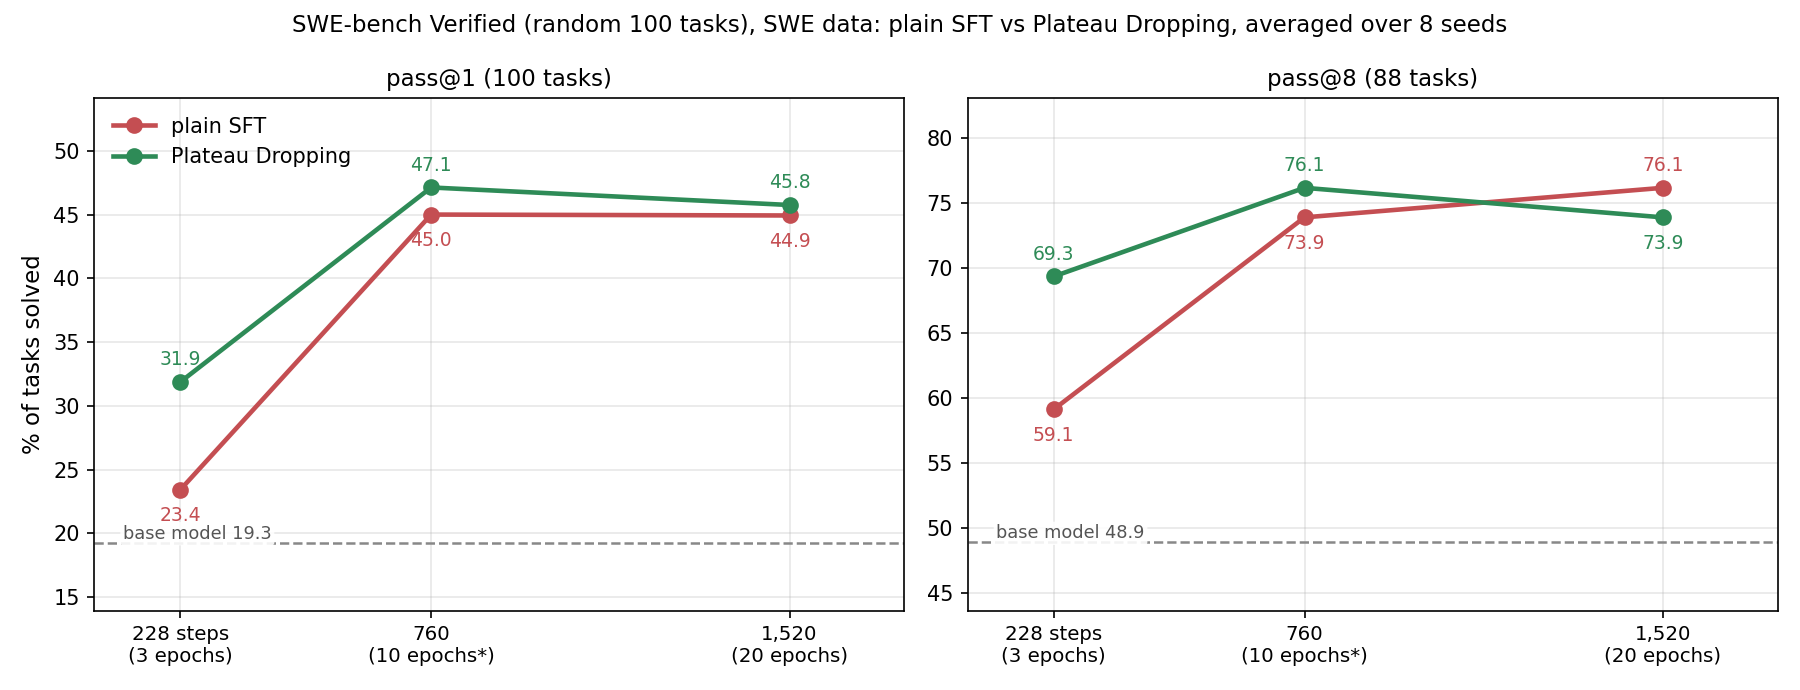
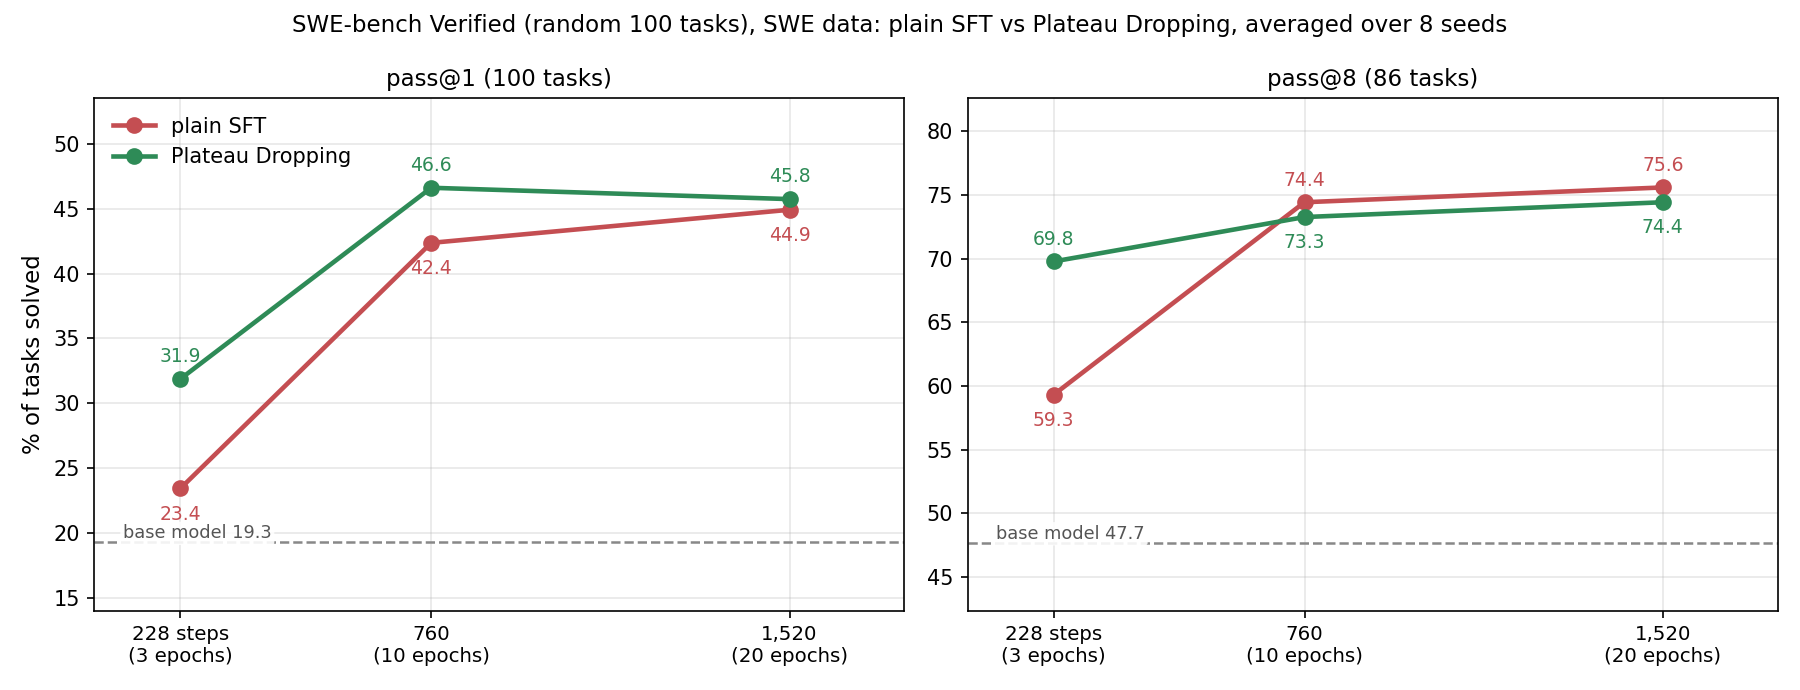
Update Plateau Dropping post: complete Table 1, final 10-epoch SWE pair
Re-port from plateau-dropping-experiments@92e2077; Figure 2 regenerated.

Claude-Session: https://claude.ai/code/session_018Ea4K6tyj913yCS93WC7Xj

diff --git a/_posts/2026-10-20-plateau-dropping.md b/_posts/2026-10-20-plateau-dropping.md
@@ -6,7 +6,6 @@ authors: Harshit Varma
 math: true
 ---
 
-
 **Summary.** Supervised fine-tuning on agent trajectories spends most of its gradient on tokens the model has already learned. We propose *Plateau Dropping*, a per-token change to SFT: the trainer tracks each training token's loss across passes over the data and removes the token from the training loss once its loss has stopped changing, so each update is driven only by tokens the model is still learning. What this buys is speed: the model acquires the agent's behaviour in far fewer passes. On SWE-bench Verified (random 100 tasks), after 3 nominal epochs on the same data, Plateau Dropping reaches 31.9% pass@1 against 23.4% for plain SFT, and 67.0% against 58.3% at pass@8. The trajectories show why: at that budget the plain-SFT agent still writes 55% longer reasoning per step, breaks the tool-call format in 1 attempt in 9, tests half as often and submits a third less, while the Plateau Dropping agent already behaves like a fully trained one. On the terminal benchmarks the advantage appears at 220 steps (+4.9 points of pass@1 on TB-Lite, +1.8 on Terminal-Bench 2.0). With more passes the gap closes, and for Plateau Dropping the closing looks like sharpening: between 10 and 20 nominal epochs its pass@1 stays put or slips while its pass@8 falls on all three benchmarks (by 2.0, 6.6 and 2.4 points on SWE-bench Verified, TB-Lite and Terminal-Bench 2.0), so that after 20 epochs on the SWE data the two methods are level (44.9% against 45.8% pass@1, 74.7% against 72.7% pass@8) and on the terminal data the 440-step Plateau Dropping run sits below its own 220-step result while plain SFT holds. Filtering whole sequences the model already fits (TailSFT) does not help at any budget we tested. One reason the long Plateau Dropping runs may be held back is gradient clipping, which hits them on 86 to 100% of their steps and plain SFT on 3 to 5%; an ablation with the clip raised is being evaluated.
 
 ---
@@ -22,21 +21,24 @@ Figure 1. Training loss on the SWE data. (a) Mean training loss per pass over th
 
 **Most of the gradient goes to tokens that are already learned.** Plateau Dropping's own bookkeeping (Section 2) measures this directly: the moment it starts judging tokens, at step 192 of a run on the SWE data, half of the training tokens already have a loss that has stopped moving, at an average loss of 0.21; by the end of a 20-epoch run that is two thirds of the tokens, at an average loss of 0.05, while the tokens still being learned sit at 0.43 (Figure 1b). Plain SFT averages its loss over all of them, so the tokens that are already right dilute every update.
 
-**Sequence-level filtering: TailSFT.** TailSFT ([Malladi et al., 2026](https://arxiv.org/abs/2608.25756)) drops training sequences the model already fits, judged by how far each sequence's loss has fallen below the base model's, so that learning concentrates on the under-modelled tail. On OLMo-3 7B it reports up to 17 points of pass@16 on math and coding, and up to 4 points of pass@1 after RL. On our agent data it does not help (Table 1): per-trajectory TailSFT for 3 nominal epochs, dropping half of each batch's trajectories with the drop share ramped up over the run, is level with plain SFT at pass@1 on SWE-bench Verified and Terminal-Bench 2.0 and 5 points below it on TB-Lite, and no better than plain SFT at pass@8 on either terminal benchmark.
+**Sequence-level filtering: TailSFT.** TailSFT ([Malladi et al., 2026](https://arxiv.org/abs/2608.25756)) drops training sequences the model already fits, judged by how far each sequence's loss has fallen below the base model's, so that learning concentrates on the under-modelled tail. On OLMo-3 7B it reports up to 17 points of pass@16 on math and coding, and up to 4 points of pass@1 after RL. On our agent data it does not help (Table 1): per-trajectory TailSFT for 3 nominal epochs, dropping half of each batch's trajectories with the drop share ramped up over the run, is level with plain SFT at pass@1 on SWE-bench Verified and Terminal-Bench 2.0 and 5 points below it on TB-Lite, and 6 to 7 points below plain SFT at pass@8 on all three. The three agent-aware variants we tried (taking the full drop share from step 5 instead of ramping it, scoring per agent step, scoring per span) do no better: the per-step variant is the only one ahead of plain SFT anywhere (Terminal-Bench 2.0 pass@1, +3.2 ± 1.3) and it is 12 points behind at pass@8 on TB-Lite. Training for 10 nominal epochs (220 steps) does not change the picture: per-trajectory TailSFT is level with plain SFT (TB-Lite +1.1 ± 1.9, Terminal-Bench 2.0 −0.9 ± 1.5 at pass@1) where Plateau Dropping leads by 4.9 and 1.8 (Section 3.2).
 
-**Table 1.** TailSFT against plain SFT at 3 nominal epochs (66 steps on the terminal data, 228 on the SWE data), pass@1 and pass@8 in %, averaged over 8 seeds. The last column is the paired difference, TailSFT minus SFT, with its standard error over tasks. Task counts (pass@1 / pass@8): Terminal-Bench 2.0 88 / 65; TB-Lite 97 / 80; SWE-bench Verified 100 / 94. The two agent-specific variants (per agent step, per span) and the full-drop-share-from-step-5 variant are still being evaluated.
+**Table 1.** TailSFT against plain SFT at 3 nominal epochs (66 steps on the terminal data, 228 on the SWE data), pass@1 and pass@8 in %, averaged over 8 seeds. The last column is the paired difference, TailSFT minus SFT, with its standard error over tasks. Each benchmark's rows use the tasks with enough valid attempts for every model in those rows; task counts (pass@1 / pass@8): SWE-bench Verified 100 / 92; Terminal-Bench 2.0 88 / 60; TB-Lite 97 / 76. Because the terminal task set here is matched across five models, plain SFT's terminal pass@8 differs from Tables 5 and 6, which are matched across a different set of models. The per-trajectory variant drops half of each batch's trajectories, with the drop share ramped up linearly over the run; "full share from step 5" drops half from step 5 on; "per agent step" and "per span" score and drop individual agent turns or individual reasoning and command spans instead of whole trajectories.
 
 | benchmark | model | pass@1 | pass@8 | TailSFT − SFT at pass@1 / pass@8 |
 |---|---|---|---|---|
 | SWE-bench Verified | SFT | 23.4 | 58.3 | |
-| SWE-bench Verified | TailSFT, per trajectory | 24.3 | [pending] | +0.9 (1.7) / – [provisional, 710 of 800 trials] |
-| Terminal-Bench 2.0 | SFT | 10.2 | 29.2 | |
-| Terminal-Bench 2.0 | TailSFT, per trajectory | 10.1 | 27.7 | −0.1 (1.4) / −1.5 (5.1) |
-| TB-Lite | SFT | 27.3 | 68.8 | |
-| TB-Lite | TailSFT, per trajectory | 22.2 | 62.5 | −5.2 (2.0) / −6.2 (3.7) |
-| terminal benchmarks | TailSFT, per trajectory, full drop share from step 5 | [pending] | [pending] | |
-| terminal benchmarks | TailSFT, per agent step | [pending] | [pending] | |
-| terminal benchmarks | TailSFT, per span (reasoning and command separately) | [pending] | [pending] | |
+| SWE-bench Verified | TailSFT, per trajectory | 23.4 | 52.1 | +0.0 (1.7) / −6.5 (4.5) |
+| Terminal-Bench 2.0 | SFT | 10.2 | 40.0 | |
+| Terminal-Bench 2.0 | TailSFT, per trajectory | 10.1 | 33.3 | −0.1 (1.4) / −6.7 (5.0) |
+| Terminal-Bench 2.0 | TailSFT, per trajectory, full share from step 5 | 10.2 | 30.0 | −0.0 (1.4) / −10.0 (4.4) |
+| Terminal-Bench 2.0 | TailSFT, per agent step | 13.4 | 41.7 | +3.2 (1.3) / +1.7 (4.5) |
+| Terminal-Bench 2.0 | TailSFT, per span | 8.8 | 35.0 | −1.4 (1.3) / −5.0 (4.3) |
+| TB-Lite | SFT | 27.3 | 73.7 | |
+| TB-Lite | TailSFT, per trajectory | 22.2 | 67.1 | −5.2 (2.0) / −6.6 (3.8) |
+| TB-Lite | TailSFT, per trajectory, full share from step 5 | 23.9 | 61.8 | −3.5 (1.8) / −11.8 (5.1) |
+| TB-Lite | TailSFT, per agent step | 25.2 | 61.8 | −2.1 (1.7) / −11.8 (4.2) |
+| TB-Lite | TailSFT, per span | 25.2 | 68.4 | −2.1 (1.7) / −5.3 (4.6) |
 
 Two things about sequence-level filtering do not fit agent data. A trajectory mixes tokens the model has long learned (tool-call syntax, repeated commands) with tokens it has not, so a sequence-level score blurs them; and a snapshot of confidence is a poor guide to what is still being learned, since many easy tokens are still moving while some hard tokens are stuck. This led us to select individual tokens rather than whole sequences, and to judge each token by its own loss history rather than by a snapshot of confidence. We propose *Plateau Dropping*, which does both: it removes a token from the training loss once that token's loss has plateaued. The token stays in its sequence, so its loss is still measured each time the sequence is revisited, and if that loss starts changing again, the token goes back into the training loss.
 
@@ -78,7 +80,7 @@ Our packer fills fixed-length rows (64k tokens on the SWE data, 32k on the termi
 - **Terminal data.** 6,301 successful trajectories (45M tokens, 1,610 tasks): 5,324 from the public [allenai/tmax-sft](https://huggingface.co/datasets/allenai/tmax-sft) dataset, written by a 27B teacher, and 977 of the base model's own successes on synthetic terminal tasks. Context 32k.
 - **SWE data.** 9,229 resolved trajectories (7,005 tasks) from the public [nvidia/Open-SWE-Traces](https://huggingface.co/datasets/nvidia/Open-SWE-Traces) dataset, restricted to one shell command per step to match our agent (319M tokens). Context 64k.
 - **Training.** Learning rate 1e-4, cosine schedule over the run with 3% warmup, AdamH, no weight decay, global gradient-norm clipping at 1.0, bf16 compute with fp32 master weights and optimizer state, expert capacity factor 2.0 (no dropped token-to-expert assignments), router biases frozen, 16 nodes of 4 GPUs each. Plain SFT and Plateau Dropping runs of the same length share the data order.
-- **Compared models.** On the terminal data: SFT and Plateau Dropping for 3, 10 and 20 nominal epochs (66, 220 and 440 steps), and TailSFT for 3. On the SWE data: SFT and Plateau Dropping for 3 and 20 nominal epochs (228 and 1,520 steps), evaluated at the end and, for the 20-epoch runs, at their mid-schedule checkpoint (step 760), TailSFT for 3, and dedicated 10-epoch runs (760 steps with their own schedule) that are being evaluated.
+- **Compared models.** On the terminal data: SFT and Plateau Dropping for 3, 10 and 20 nominal epochs (66, 220 and 440 steps), and TailSFT for 3. On the SWE data: SFT and Plateau Dropping for 3, 10 and 20 nominal epochs (228, 760 and 1,520 steps), TailSFT for 3, and a 10-epoch Plateau Dropping run with the gradient clip raised from 1.0 to 4.0 (Section 3.3).
 - **Harness.** We use the [mini-swe-agent](https://github.com/SWE-agent/mini-swe-agent) harness everywhere: all training trajectories are in its format, and all evaluations run in it. At each step the model writes its reasoning and one shell command, then sees the command's output.
 
 **Our data in context.** By the standards of public agentic SFT data, our datasets are small to mid-sized (Table 2). In trajectory count they are close to the sets several SWE agents were fine-tuned on (SWE-smith, R2E-Gym, SWE-Dev) and to the terminal set we draw from, and one to two orders of magnitude below the largest public releases (Open-SWE-Traces, Nemotron-Terminal-Corpus). None of the public releases reports a total token count.
@@ -111,7 +113,7 @@ One change to the SWE-bench Verified grader: before running the tests, the stand
 
 ![Figure 2](/assets/img/blog/plateau-dropping/fig5_swebench_corrected.png)
 
-Figure 2. SWE-bench Verified (random 100 tasks), pass@1 and pass@8 (%) against training length for plain SFT (red) and Plateau Dropping (green), averaged over 8 seeds; dashed: the base model. Each panel uses the tasks with at least k valid attempts for every model shown (100 at pass@1, 88 at pass@8). The 10-epoch point is the mid-schedule checkpoint of the 20-epoch runs until the dedicated 10-epoch runs are evaluated.
+Figure 2. SWE-bench Verified (random 100 tasks), pass@1 and pass@8 (%) against training length for plain SFT (red) and Plateau Dropping (green), averaged over 8 seeds; dashed: the base model. Each panel uses the tasks with at least k valid attempts for every model shown (100 at pass@1, 86 at pass@8).
 {: .caption}
 
 **Table 3.** SWE-bench Verified, pass@1 and pass@8 in %, averaged over 8 seeds, all 100 tasks at pass@1 (pass@8: the number of tasks with 8 valid attempts for both models of a pair, in brackets). The last column is the paired difference, Plateau Dropping minus SFT, with its standard error over tasks.
@@ -121,14 +123,12 @@ Figure 2. SWE-bench Verified (random 100 tasks), pass@1 and pass@8 (%) against t
 | none | base model | 19.3 | 47.7 | |
 | 3 epochs (228 steps) | + SFT | 23.4 | 58.3 (94) | |
 | 3 epochs (228 steps) | + Plateau Dropping | **31.9** | **67.0** (94) | +8.4 (2.1) / +9.6 (4.6) |
-| step 760 of the 20-epoch runs | + SFT | 45.0 | 72.7 (99) | |
-| step 760 of the 20-epoch runs | + Plateau Dropping | **47.1** | **74.0** (99) | +2.1 (1.7) / +2.0 (2.9) |
-| 10 epochs (760 steps, own schedule) | + SFT | [pending] | [pending] | |
-| 10 epochs (760 steps, own schedule) | + Plateau Dropping | [pending] | [pending] | [pending] |
+| 10 epochs (760 steps) | + SFT | 42.4 | 71.1 (97) | |
+| 10 epochs (760 steps) | + Plateau Dropping | **46.6** | **72.2** (97) | +4.2 (1.8) / +1.0 (3.5) |
 | 20 epochs (1,520 steps) | + SFT | 44.9 | **74.7** (98) | |
 | 20 epochs (1,520 steps) | + Plateau Dropping | **45.8** | 72.7 (98) | +0.8 (1.7) / −3.1 (3.0) |
 
-Three things stand out. First, plain SFT on this data is strong: 20 nominal epochs take the base model from 19.3% to 44.9% pass@1 and from 47.7% to 74.7% pass@8, and the loss keeps falling throughout (Figure 1). Second, at a small training budget Plateau Dropping is far ahead: after 3 nominal epochs (2.2 real passes) it is 8.4 points above plain SFT at pass@1, four standard errors, and 9.6 points above it at pass@8. The two runs are identical until step 192, so the whole difference comes from the last 36 steps of the run, during which Plateau Dropping trains on the half of the tokens whose loss is still moving. Third, with more passes the gap closes, and the way it closes is sharpening on Plateau Dropping's side: at the mid-schedule checkpoint (10 nominal epochs) it is about 2 points ahead at both pass@1 and pass@8 (about one standard error); from there to 20 epochs its pass@1 stays within noise (47.1% to 45.8%, −1.4 ± 1.6 paired) while its pass@8 falls (74.7% to 72.7%, −2.0 ± 1.4), whereas plain SFT's pass@1 is unchanged (45.0% to 44.9%) and its pass@8 keeps rising (72.4% to 74.5%, +2.0 ± 2.8). The two curves cross at pass@8 and end level at pass@1, with no coverage advantage for Plateau Dropping at 20 epochs (72.7% against 74.7%). TailSFT at 3 epochs lands with plain SFT (Table 1). The dedicated 10-epoch runs, and the clipping ablation of Section 3.3, are being evaluated.
+Three things stand out. First, plain SFT on this data is strong: 20 nominal epochs take the base model from 19.3% to 44.9% pass@1 and from 47.7% to 74.7% pass@8, and the loss keeps falling throughout (Figure 1). Second, at a small training budget Plateau Dropping is far ahead: after 3 nominal epochs (2.2 real passes) it is 8.4 points above plain SFT at pass@1, four standard errors, and 9.6 points above it at pass@8. The two runs are identical until step 192, so the whole difference comes from the last 36 steps of the run, during which Plateau Dropping trains on the half of the tokens whose loss is still moving. Third, with more passes the gap narrows and then closes. At 10 nominal epochs Plateau Dropping is 4.2 points ahead at pass@1 (two standard errors) and level at pass@8 (+1.0 ± 3.5). From 10 to 20 epochs it stops improving: its pass@1 is flat (46.6% to 45.8%, −0.9 ± 1.8 paired) and so is its pass@8 (73.5% to 73.5% on the 98 tasks common to both evaluations), whereas plain SFT is still gaining (pass@1 42.4% to 44.9%, +2.6 ± 1.9; pass@8 70.1% to 74.2%, +4.1 ± 3.6). At 20 epochs the two are level at pass@1 and plain SFT is 3 points ahead at pass@8, so Plateau Dropping's coverage advantage of the early runs is gone. On the SWE data this is a plateau rather than a decline; on the terminal data the same transition is a decline, with Plateau Dropping's pass@1 and pass@8 both falling from 10 to 20 epochs (Section 3.2). The mid-schedule checkpoint of the 20-epoch runs (step 760, learning rate still high) tells the same story as the dedicated 10-epoch runs: 45.0% against 47.1% at pass@1. TailSFT at 3 epochs lands with plain SFT (Table 1).
 
 **Why it helps at 3 epochs.** We parsed the evaluation trajectories of the 3-epoch and 20-epoch models (Table 4; 3-epoch rows: about 470 attempts per model on the 65 tasks finished at the time of the analysis; 20-epoch rows: about 500 attempts per model). At 3 epochs the plain-SFT agent is still half-trained as an agent: it writes 55% longer reasoning per step, so it fits fewer steps before running out of context; it breaks the tool-call format often enough that 1 attempt in 9 ends on three malformed calls in a row; it runs the repository's tests half as often, rarely after its last edit; and it submits a third less often. The Plateau Dropping agent at the same step count already looks like the 20-epoch models on every one of these measures, and its gain splits between better fix quality (pass given every reference file edited: 44.5% against 35.2%) and slightly better localisation (75.5% against 67.6% of attempts edit every reference file). By 20 epochs plain SFT has learned the same things from repetition and the two agents behave alike. These are correlations from one analysis of the evaluation trajectories, not a causal test.
 
@@ -172,11 +172,11 @@ Figure 4. TB-Lite, pass@1 and pass@8 (%) against training length (66, 220 and 44
 | 20 epochs (440 steps) | + SFT | 33.2 | 73.8 | |
 | 20 epochs (440 steps) | + Plateau Dropping | 30.3 | 71.2 | −3.0 (1.7) / −2.5 (3.1) |
 
-**Table 6.** Terminal-Bench 2.0, pass@1 and pass@8 in %, averaged over 8 seeds, matched task set across the fine-tuned models (88 tasks at pass@1, 65 at pass@8). The last column is the paired difference, Plateau Dropping minus SFT, with its standard error over tasks.
+**Table 6.** Terminal-Bench 2.0, pass@1 and pass@8 in %, averaged over 8 seeds, matched task set across the fine-tuned models (88 tasks at pass@1, 65 at pass@8); the base model has 5 seeds so far, so only its pass@1 is shown. The last column is the paired difference, Plateau Dropping minus SFT, with its standard error over tasks.
 
 | training length | model | pass@1 | pass@8 | PD − SFT at pass@1 / pass@8 |
 |---|---|---|---|---|
-| none | base model | 8.8 | 30.3 | |
+| none | base model (5 seeds; an 8-seed evaluation is running) | 8.9 | [pending] | |
 | 3 epochs (66 steps) | + SFT | 10.2 | 29.2 | |
 | 3 epochs (66 steps) | + Plateau Dropping | 12.5 | 32.3 | +2.3 (1.4) / +3.1 (4.4) |
 | 10 epochs (220 steps) | + SFT | 16.9 | 36.9 | |
@@ -208,7 +208,7 @@ Plateau Dropping is a small change to standard SFT. The trainer remembers each t
 
 ## 6. Training bugs we found along the way
 
-Our first runs were on one cluster. When we ported the setup to a second cluster to reproduce them, the Plateau Dropping result came out 4 points lower, and the search for that difference found two bugs in the trainer that had affected every one of those runs, plus two smaller issues. All four are fixed; both clusters now run byte-identical trainer code, and every run in this post passed an audit (no restarts, no non-finite losses, plain and Plateau Dropping losses identical step by step until dropping starts, every exported checkpoint validated against the training checkpoint).
+Our first runs were all on one cluster. When we ported the setup to a second cluster to reproduce them, the Plateau Dropping result came out 4 points lower, and the search for that difference found two bugs in the trainer that had affected every one of those runs, plus two smaller issues. All four are fixed; both clusters now run byte-identical trainer code, and every run in this post passed an audit (no restarts, no non-finite losses, plain and Plateau Dropping losses identical step by step until dropping starts, every exported checkpoint validated against the training checkpoint).
 
 ![Figure 5](/assets/img/blog/plateau-dropping/fig_bugs_loss_curves.png)
 
@@ -219,11 +219,11 @@ Figure 5. Left: training loss over all tokens on the SWE data for our first, bug
 
 **2. The mixture of experts dropped token-to-expert assignments.** The model was trained with an expert capacity factor of 1.0, so whenever a batch routed more tokens to an expert than its even share, the excess assignments were dropped. On this data 14 to 19% of assignments were dropped, and the fraction depended on the hardware's rounding (18.6% on the GH200 cluster, 15.5% on the GB200 cluster), which cost 0.067 to 0.082 nats of loss and is what made the two clusters disagree. With the capacity factor raised to 2.0 the overflow is 0.16% at the start of a run and 0 by the end, the two clusters agree to four decimals, and the trainer's loss matches an independent inference implementation to 0.0002.
 
-**3. The TailSFT reference pass zeroed the router bias.** The forward-only scoring pass that produces TailSFT's per-sequence reference losses applied a zero router bias instead of the frozen one from the checkpoint. The effect on the references was small (per-document error with a standard deviation of 0.006 and a rank correlation of 0.998 with the correct references), so it did not change the TailSFT result; the TailSFT runs in Table 1 use references from the fixed pass.
+**3. The TailSFT reference pass zeroed the router bias.** The forward-only scoring pass that produces TailSFT's per-sequence reference losses applied a zero router bias instead of the frozen one from the checkpoint. The TailSFT runs in Table 1 use references from the fixed pass. The effect of the bug on the references was small (per-document error with a standard deviation of 0.006 and a rank correlation of 0.998 with the correct references), so it did not change the TailSFT result.
 
-**4. Epochs were overstated.** We first counted passes from token totals and ignored row padding, so what we called "10 epochs" on the terminal data was 7.6 real passes and "20 epochs" on the SWE data was 14.8. This post keeps the nominal names and gives the real pass counts in Section 2.2.
+**4. Epochs were overstated.** We first counted passes from token totals and ignored row padding, so what we called "10 epochs" on the terminal data were 7.6 real passes and "20 epochs" on the SWE data were 14.8. This post keeps the nominal names and gives the real pass counts in Section 2.2.
 
-**What the bugs did to our conclusions.** In our first runs the training loss flattened after one pass, and plain SFT barely moved the base model (19.5% pass@1 on SWE-bench Verified after 20 nominal epochs, against 19.3% for the base) while Plateau Dropping reached 31.1%. Both were the first bug: with the fixed trainer the loss falls throughout and plain SFT reaches 44.9% pass@1 and 74.7% pass@8. We do not have a complete account of why Plateau Dropping still improved under the bug. Its gradients are larger, because its loss is averaged over fewer, harder tokens, which would let more of its updates survive the rounding; but the fraction of weights that moved at all was the same in both arms, so those runs compared two models that had barely trained, and their 10-point gap at 20 epochs does not survive the fix: with both arms training properly, the two are level (Table 3). What survives is the short-training advantage, which is larger and better supported than anything in the buggy runs (+8.4 points at pass@1 and +9.6 at pass@8 after 3 epochs on SWE-bench Verified; +4.9 and +6.2 on TB-Lite at 220 steps), and a small edge mid-training on the SWE data. The ablations, the runs from a stronger starting checkpoint, and a comparison of RL started from plain SFT and from Plateau Dropping were all trained under the bugs, so we leave them out of this post until they are rerun (the RL runs themselves were unaffected; their SFT starting points were not). The fixes (fp32 master weights, the capacity-factor setting, the corrected scoring pass, and a gradient-clipping setting for the ablation of Section 3.3) are in our fork of the trainer.
+**What the bugs did to our conclusions.** In the buggy runs the training loss flattened after one pass, and plain SFT barely moved the base model (19.5% pass@1 on SWE-bench Verified after 20 nominal epochs, against 19.3% for the base) while Plateau Dropping reached 31.1%. Both observations were the first bug: with the fixed trainer the loss falls throughout and plain SFT reaches 44.9% pass@1 and 74.7% pass@8. We do not have a complete account of why Plateau Dropping still improved under the bug. Its gradients are larger, because its loss is averaged over fewer, harder tokens, which would let more of its updates survive the rounding; but the fraction of weights that moved at all was the same in both arms, so that comparison was between two models that had barely trained, and its 10-point gap at 20 epochs does not survive the fix: with both arms training properly, the two are level (Table 3). The terminal-benchmark results of the buggy runs came from the same regime. What survives is the short-training advantage, which is larger and better supported than anything in the buggy runs (+8.4 points at pass@1 and +9.6 at pass@8 after 3 epochs on SWE-bench Verified; +4.9 and +6.2 on TB-Lite at 220 steps), and a smaller edge at 10 epochs on the SWE data (+4.2 at pass@1). The ablations, the runs from a stronger starting checkpoint, and the comparison of RL started from plain SFT and from Plateau Dropping were all trained under the bugs, and we leave them out of this post until they are rerun (the RL runs themselves were unaffected; their SFT starting points were not). The fixes (fp32 master weights, the capacity-factor setting, the corrected scoring pass, and a gradient-clipping setting for the ablation of Section 3.3) are in our fork of the trainer.
 
 ## References
 
